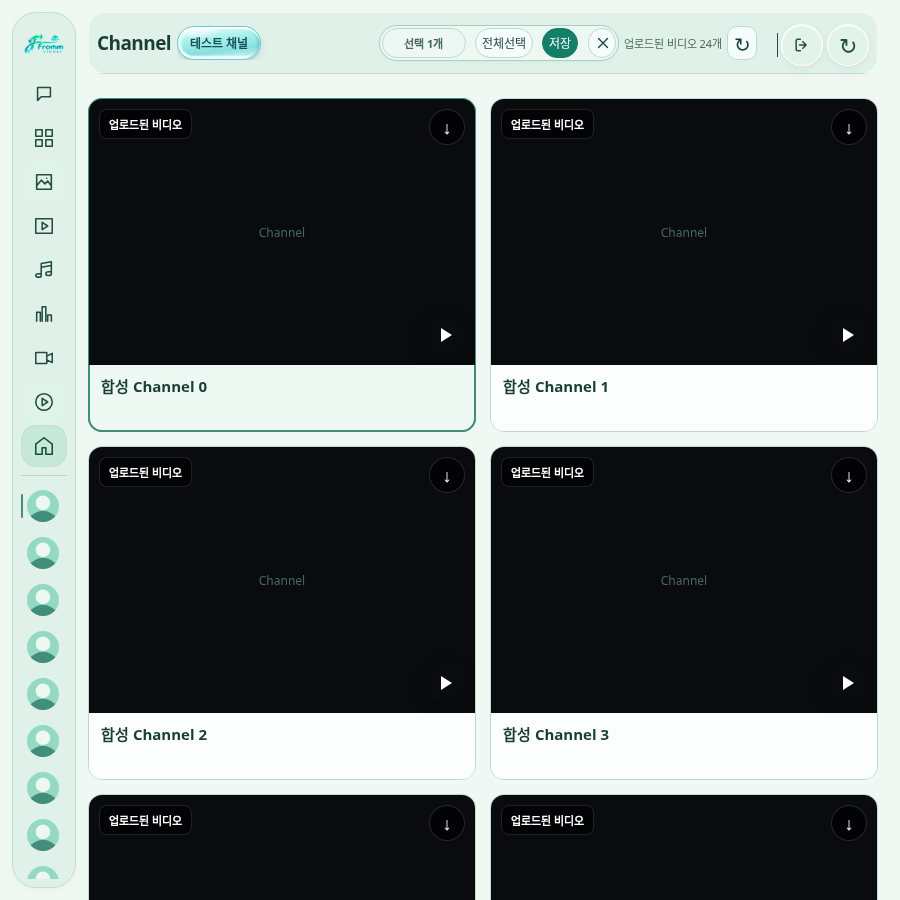
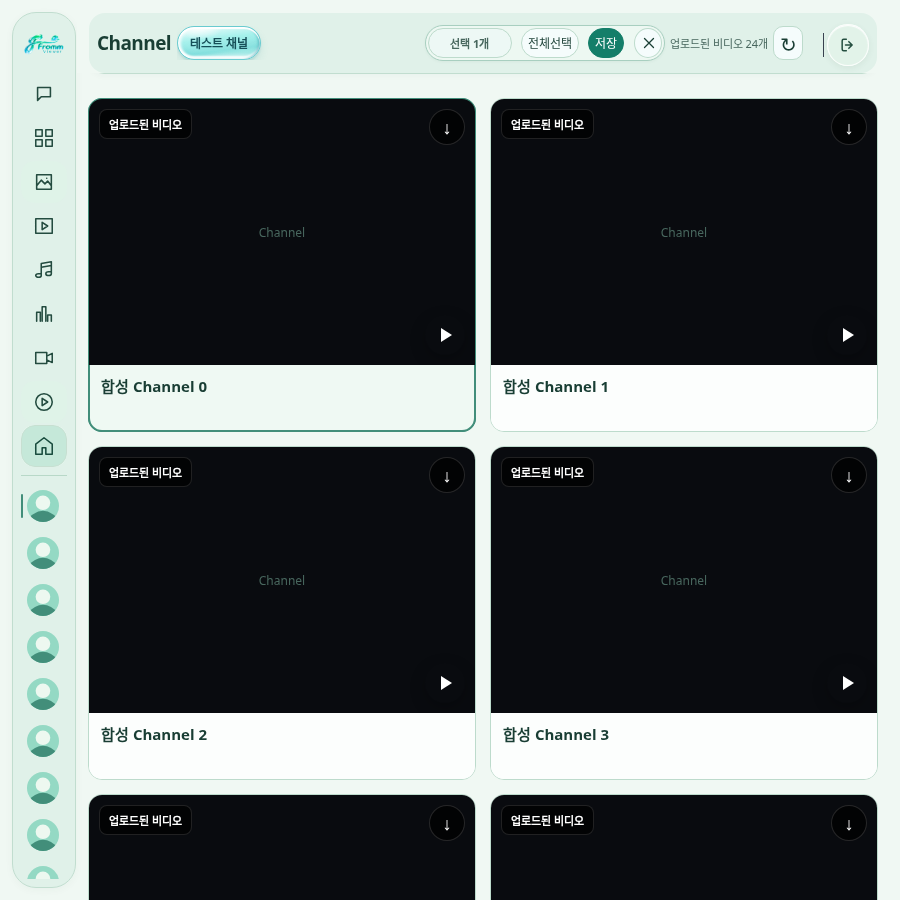
fix: align reply expectations with sticky header and retain one channel refresh

Changed region(s): [[0.4356, 0.0311, 0.9022, 0.0622], [0.9333, 0.0311, 0.9644, 0.0622]]

diff --git a/web-glowme.js b/web-glowme.js
@@ -96,9 +96,10 @@
       const count=candidate.querySelector('.replay-count');if(selectionSlot.parentElement!==candidate)candidate.insertBefore(selectionSlot,count);
       focused?.focus({preventScroll:true});
     }
+    document.documentElement.classList.toggle('pc-has-list-refresh',!!(pc&&pcToolbar?.querySelector('#channelRefresh')));
     const media=pc&&['media','image','video','sound'].includes(state.filter);
     pcMediaRow.hidden=!media;
-    if(media){const text=`${labels[state.filter]} ${downloadSelectionScope().items.length.toLocaleString()}`;if(pcListInfo.textContent!==text)pcListInfo.textContent=text;if(mediaDock.parentElement!==pcMediaRow)pcMediaRow.append(mediaDock);}
+    if(media){const text=`${labels[state.filter]} ${state.infiniteList.length.toLocaleString()}`;if(pcListInfo.textContent!==text)pcListInfo.textContent=text;if(mediaDock.parentElement!==pcMediaRow)pcMediaRow.append(mediaDock);}
     else if(mediaDock.parentElement!==document.body)document.body.append(mediaDock);
   }
   function syncMediaDock(){

diff --git a/glowme.css b/glowme.css
@@ -711,3 +711,7 @@ html.glowme .reply-content{color:#244c42}
 @media(min-width:701px) and (hover:hover) and (pointer:fine){
  .glowme-phase3.pc-layout.sidebar-open #sidebar{z-index:500}
 }
+
+@media(min-width:701px) and (hover:hover) and (pointer:fine){
+ .glowme-phase3.pc-layout.pc-collection.pc-has-list-refresh #scanBtn{display:none!important}
+}

diff --git a/docs/PC_THREE_PANEL_HANDOFF.md b/docs/PC_THREE_PANEL_HANDOFF.md
@@ -49,3 +49,12 @@
 - 변경한 review 검사 로컬320/844/1440 PWA 통과. 필수 CI가 포함한 기존 모바일 사례를 유지한 것이며 모바일 스타일 개편은 하지 않음.
 - 캡슐 내부는 고정 폭 안에서 버튼 간격을 고르게 정돈. 변경 후 새 PC1440/900/760 및 모바일390 대화·미디어 최소 검사 재통과. 전후 PNG의 수정 후 화면 재촬영.
 - 다음: 최신 커밋의 전체 CI 결과 확인 후 PR에 최종 결과 기록. main/public 상태는 변경하지 않는다.
+
+
+## 최종 좌표·공통 조작 보강
+
+- CI 두 번째 실패는 reply-anchor-context의 옛 top12 조건. PC sticky header와 검색 dock을 모두 피하는 실제 inset 기준으로 수정. 로컬1440/390 재검사 통과. 원문/전체 대화 유지·늦은 행 높이 변경·사용자 스크롤 우선 검사는 그대로 유지.
+- Channel 목록은 원래 channelRefresh를 보존하고 중복 공통 scanBtn만 PC CSS로 숨김. LIVE/Replay/플레이어에서는 공통 새로고침 접근 유지, 로그아웃도 유지. 필터와 카운트는 숨기지 않음.
+- 미디어 목록 정보는 기존 state.infiniteList.length를 O(1)로 읽음. 레이아웃 동기화 때 전체 메시지를 다시 필터링하지 않음.
+- 새 PC1440/900/760 및 모바일390 최소 검사 재통과. ui-icons, reply-start-top, reply-anchor-context, glowme-phase3-visual도 통과. 필수 CI만 남음.
+- 기존 visual 검사의 합성 성능 수치는 optics idle 초기화 등에 영향을 받는 단회 측정이며 실제 기기 CPU/GPU 성능 보증으로 사용하지 않음. 엔진 개편/새 blur 추가 없음.
